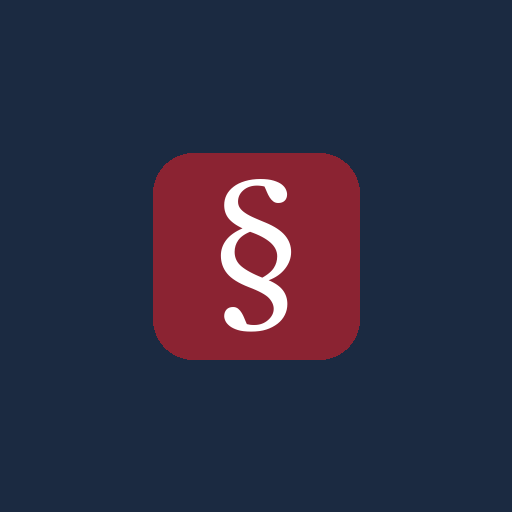
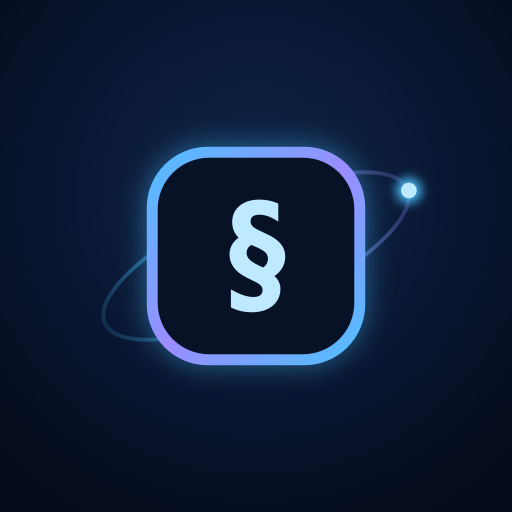
Ícones no visual 2.0 (aba, marcador, celular e app instalado)

diff --git a/src/app/layout.tsx b/src/app/layout.tsx
@@ -6,10 +6,14 @@ export const metadata: Metadata = {
   title: "Jurídico Monitor",
   description: "Monitoramento de processos judiciais do grupo",
   applicationName: "Jurídico Monitor",
-  manifest: "/manifest.webmanifest",
+  // ?v=2: ícones do visual 2.0 (12/11/2026) — muda o endereço para o navegador não usar o antigo guardado.
+  manifest: "/manifest.webmanifest?v=2",
   icons: {
-    icon: [{ url: "/favicon.png", type: "image/png" }],
-    apple: [{ url: "/apple-touch-icon.png", sizes: "180x180" }],
+    icon: [
+      { url: "/icon.svg?v=2", type: "image/svg+xml" },
+      { url: "/favicon.png?v=2", type: "image/png", sizes: "64x64" },
+    ],
+    apple: [{ url: "/apple-touch-icon.png?v=2", sizes: "180x180" }],
   },
   appleWebApp: {
     capable: true,
